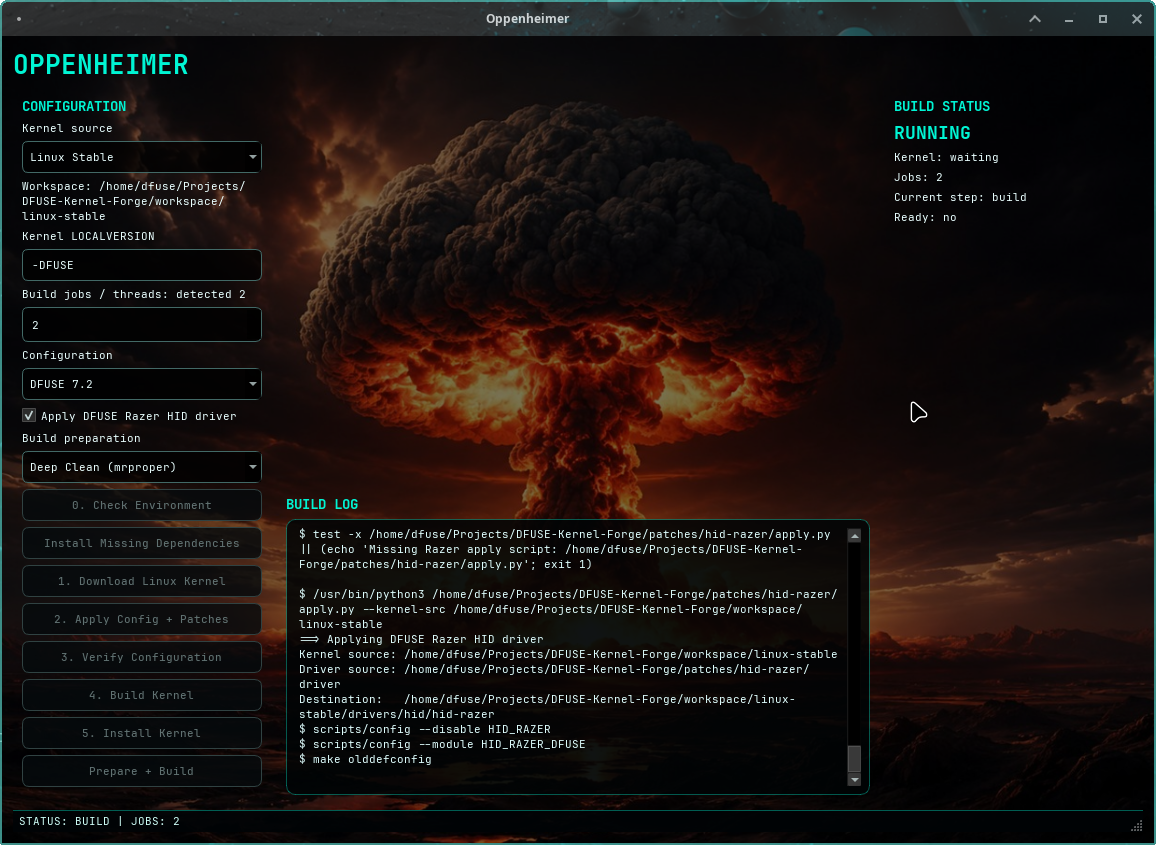
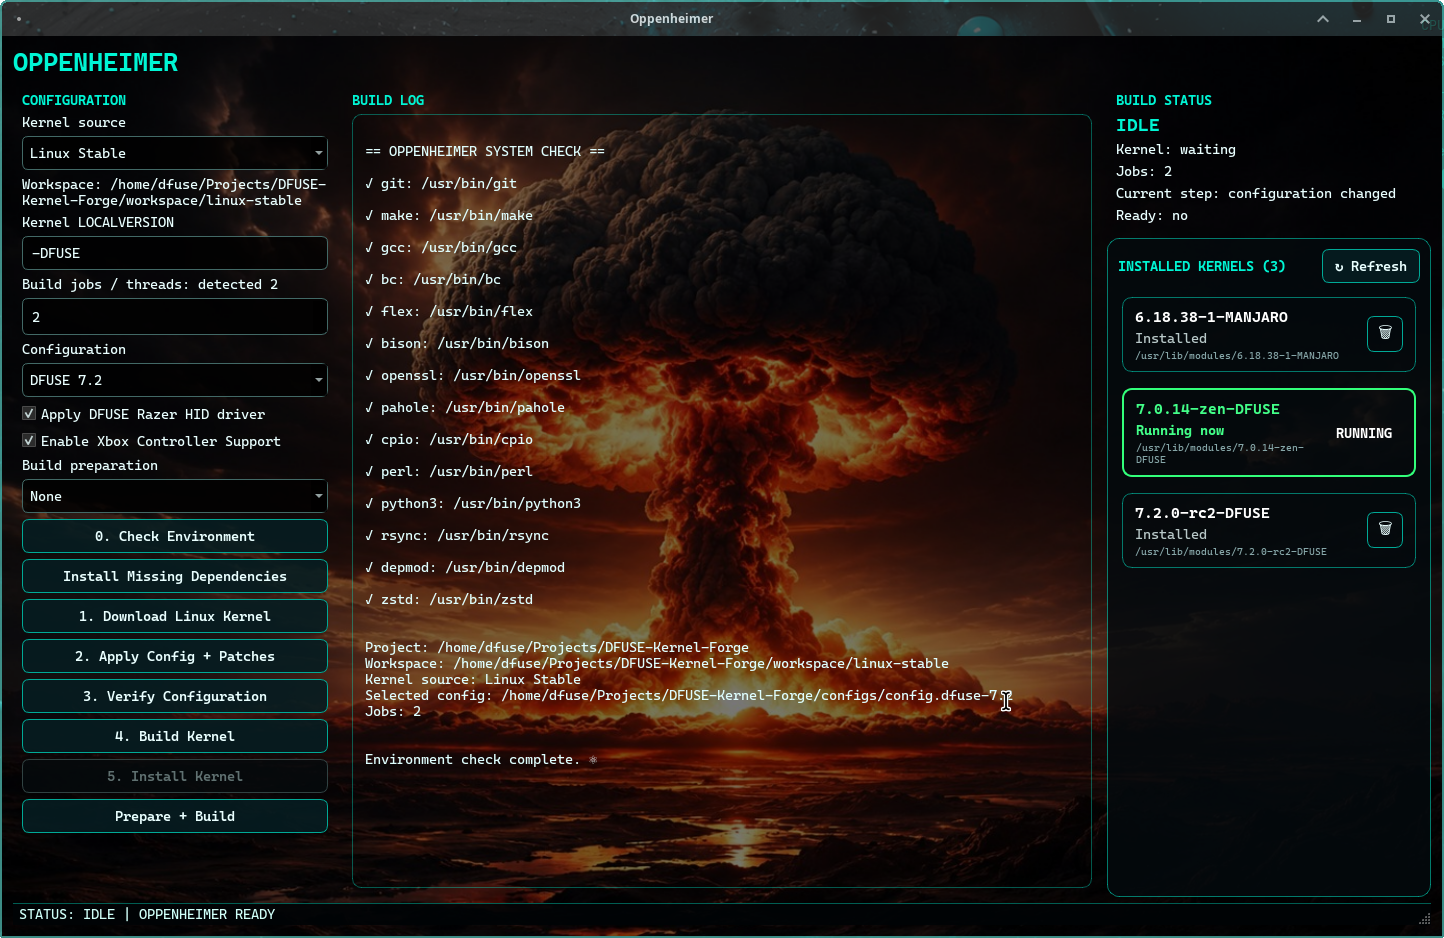
Improve UI typography and bundle Cascadia Code fonts

diff --git a/ui/fonts.py b/ui/fonts.py
@@ -1,0 +1,59 @@
+"""Bundled font loading for Oppenheimer."""
+
+from pathlib import Path
+
+from PySide6.QtGui import QFont, QFontDatabase
+
+
+PROJECT_ROOT = Path(__file__).resolve().parent.parent
+FONT_DIR = PROJECT_ROOT / "assets" / "fonts"
+
+DEFAULT_FONT_FAMILY = "Cascadia Code"
+DEFAULT_FONT_SIZE = 10
+
+
+def load_application_fonts() -> str:
+    """
+    Load every bundled TTF/OTF font and return the preferred font family.
+
+    Falls back to Qt's system fixed-width font if the bundled font cannot
+    be loaded.
+    """
+    loaded_families: list[str] = []
+
+    if FONT_DIR.is_dir():
+        font_files = sorted(
+            list(FONT_DIR.glob("*.ttf"))
+            + list(FONT_DIR.glob("*.otf"))
+        )
+
+        for font_file in font_files:
+            font_id = QFontDatabase.addApplicationFont(str(font_file))
+
+            if font_id == -1:
+                print(f"Warning: could not load bundled font: {font_file}")
+                continue
+
+            loaded_families.extend(
+                QFontDatabase.applicationFontFamilies(font_id)
+            )
+
+    if DEFAULT_FONT_FAMILY in loaded_families:
+        return DEFAULT_FONT_FAMILY
+
+    for family in loaded_families:
+        if "Cascadia Code" in family:
+            return family
+
+    fallback = QFontDatabase.systemFont(QFontDatabase.FixedFont)
+    return fallback.family()
+
+
+def application_font(
+    family: str | None = None,
+    point_size: int = DEFAULT_FONT_SIZE,
+) -> QFont:
+    """Create the application's default font."""
+    font = QFont(family or DEFAULT_FONT_FAMILY, point_size)
+    font.setStyleHint(QFont.StyleHint.Monospace)
+    return font

diff --git a/ui/styles.py b/ui/styles.py
@@ -1,5 +1,31 @@
 APP_STYLE = """
-QWidget { color: #e9ffff; font-family: 'JetBrains Mono'; font-size: 11px; }
+QWidget {
+    color: #e9ffff;
+    font-size: 14px;
+}
+
+QPushButton {
+    font-size: 14px;
+    font-weight: 600;
+}
+
+QCheckBox {
+    font-size: 14px;
+}
+
+QGroupBox {
+    font-size: 14px;
+    font-weight: 700;
+}
+
+QLabel#title {
+    font-size: 22px;
+    font-weight: 700;
+}
+
+QPlainTextEdit {
+    font-size: 14px;
+}
 
 QWidget#glassPanel {
     background-color: rgba(4, 10, 13, 215);

diff --git a/oppenheimer.py b/oppenheimer.py
@@ -1,9 +1,18 @@
 #!/usr/bin/env python3
+
 from PySide6.QtWidgets import QApplication
+
 from ui.main_window import Oppenheimer
+from ui.fonts import application_font, load_application_fonts
+
 
 if __name__ == "__main__":
     app = QApplication([])
+
+    font_family = load_application_fonts()
+    app.setFont(application_font(font_family, 13))
+
     window = Oppenheimer()
     window.show()
+
     app.exec()

diff --git a/README.md b/README.md
@@ -55,22 +55,6 @@ Configure the kernel source, build jobs, configuration, DFUSE Razer integration,
 
 ---
 
-## Successful Build
-
-![Build Complete](screenshots/opp-2.png)
-
-Kernel successfully compiled and installed with real-time build logs and installation status.
-
----
-
-## Automatic Installation
-
-![Kernel Installation](screenshots/opp-3.png)
-
-Automatic module installation, kernel deployment, and privileged installation directly from the application.
-
----
-
 # Requirements
 
 ## Arch Linux / Manjaro
